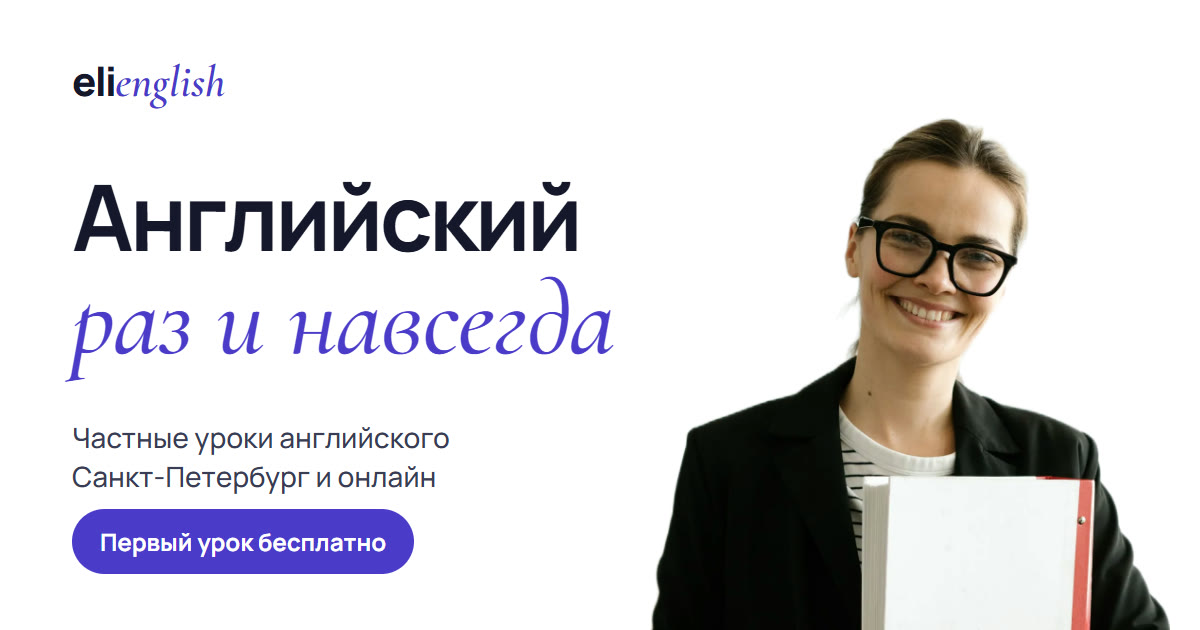
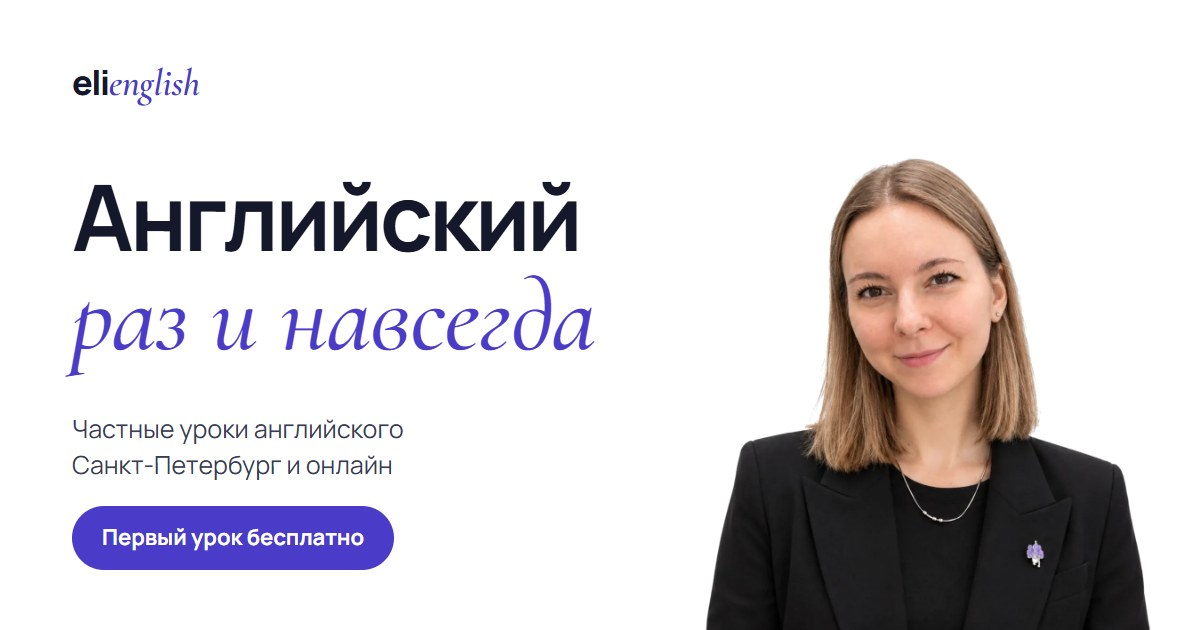
Swap teacher photos: new English photo, old one for Polish

diff --git a/site/pl/index.html b/site/pl/index.html
@@ -28,10 +28,10 @@
   <link rel="icon" href="../favicon-192.png" type="image/png" sizes="192x192">
   <link rel="apple-touch-icon" href="../apple-touch-icon.png">
   <!-- preload:start -->
-  <link rel="preload" as="image" href="../assets/img/teacher-pl-1040.webp" imagesrcset="../assets/img/teacher-pl-640.webp 640w, ../assets/img/teacher-pl-1040.webp 1040w" imagesizes="(max-width: 760px) 380px, 560px" fetchpriority="high">
+  <link rel="preload" as="image" href="../assets/img/teacher-pl-v2-1100.webp" imagesrcset="../assets/img/teacher-pl-v2-680.webp 680w, ../assets/img/teacher-pl-v2-1100.webp 1100w" imagesizes="(max-width: 760px) 380px, 560px" fetchpriority="high">
   <!-- preload:end -->
   <link rel="preload" as="font" type="font/woff2" href="../assets/fonts/manrope-cyrillic.woff2" crossorigin>
-  <link rel="stylesheet" href="../assets/css/style.css?v=605198b5">
+  <link rel="stylesheet" href="../assets/css/style.css?v=9910a49d">
   <script src="../assets/js/head.js?v=ccd3cd6c"></script>
   <!-- metrika:start: Яндекс Метрика, подключает tools/build.mjs, если задан METRIKA_ID -->
   <!-- metrika:end -->
@@ -210,10 +210,10 @@
           <div class="hero__photo">
             <!-- hero-img:start -->
   <img class="hero__img hero__img--pl"
-              src="../assets/img/teacher-pl-1040.webp"
-              srcset="../assets/img/teacher-pl-640.webp 640w, ../assets/img/teacher-pl-1040.webp 1040w"
+              src="../assets/img/teacher-pl-v2-1100.webp"
+              srcset="../assets/img/teacher-pl-v2-680.webp 680w, ../assets/img/teacher-pl-v2-1100.webp 1100w"
               sizes="(max-width: 760px) 380px, 560px"
-              width="1040" height="1014"
+              width="1100" height="1152"
               alt="Преподаватель польского языка" fetchpriority="high" decoding="async">
   <!-- hero-img:end -->
           </div>

diff --git a/site/index.html b/site/index.html
@@ -27,10 +27,10 @@
   <link rel="icon" href="favicon-192.png" type="image/png" sizes="192x192">
   <link rel="apple-touch-icon" href="apple-touch-icon.png">
   <!-- preload:start -->
-  <link rel="preload" as="image" href="assets/img/teacher-en-1100.webp" imagesrcset="assets/img/teacher-en-680.webp 680w, assets/img/teacher-en-1100.webp 1100w" imagesizes="(max-width: 760px) 380px, 560px" fetchpriority="high">
+  <link rel="preload" as="image" href="assets/img/teacher-en-v2-1030.webp" imagesrcset="assets/img/teacher-en-v2-680.webp 680w, assets/img/teacher-en-v2-1030.webp 1030w" imagesizes="(max-width: 760px) 380px, 560px" fetchpriority="high">
   <!-- preload:end -->
   <link rel="preload" as="font" type="font/woff2" href="assets/fonts/manrope-cyrillic.woff2" crossorigin>
-  <link rel="stylesheet" href="assets/css/style.css?v=605198b5">
+  <link rel="stylesheet" href="assets/css/style.css?v=9910a49d">
   <script src="assets/js/head.js?v=ccd3cd6c"></script>
   <!-- metrika:start: Яндекс Метрика, подключает tools/build.mjs, если задан METRIKA_ID -->
   <!-- metrika:end -->
@@ -209,10 +209,10 @@
           <div class="hero__photo">
             <!-- hero-img:start -->
             <img class="hero__img hero__img--en"
-              src="assets/img/teacher-en-1100.webp"
-              srcset="assets/img/teacher-en-680.webp 680w, assets/img/teacher-en-1100.webp 1100w"
+              src="assets/img/teacher-en-v2-1030.webp"
+              srcset="assets/img/teacher-en-v2-680.webp 680w, assets/img/teacher-en-v2-1030.webp 1030w"
               sizes="(max-width: 760px) 380px, 560px"
-              width="1100" height="1152"
+              width="1030" height="1170"
               alt="Преподаватель английского языка" fetchpriority="high" decoding="async">
             <!-- hero-img:end -->
           </div>

diff --git a/tools/og.html b/tools/og.html
@@ -26,7 +26,7 @@
       <p class="og__lead"><span id="lead">Частные уроки английского</span><br>Санкт-Петербург и онлайн</p>
       <span class="og__btn">Первый урок бесплатно</span>
     </div>
-    <img class="og__photo" id="photo" src="../site/assets/img/teacher-en-1100.webp" alt="">
+    <img class="og__photo" id="photo" src="../site/assets/img/teacher-en-v2-1030.webp" alt="">
   </div>
   <script>
     if (new URLSearchParams(location.search).get('lang') === 'pl') {
@@ -35,7 +35,7 @@
       document.getElementById('subj').textContent = 'Польский';
       document.getElementById('slogan').textContent = 'без границ';
       document.getElementById('lead').textContent = 'Частные уроки польского';
-      document.getElementById('photo').src = '../site/assets/img/teacher-pl-1040.webp';
+      document.getElementById('photo').src = '../site/assets/img/teacher-pl-v2-1100.webp';
     }
   </script>
 </body>

diff --git a/site/assets/css/style.css b/site/assets/css/style.css
@@ -1196,7 +1196,7 @@ body.menu-open { overflow: hidden; }
   .hero__buttons .btn { width: 100%; }
   .hero__photo { height: 420px; min-height: 0; }
   .hero__img { height: 100%; }
-  .hero__img--pl { height: 92%; }
+  .hero__img--en { height: 92%; }
   .facts__item { padding: 22px 8px 22px 0; }
   .facts__item + .facts__item { padding-left: 14px; }
   .facts__label { font-size: 13.5px; }
